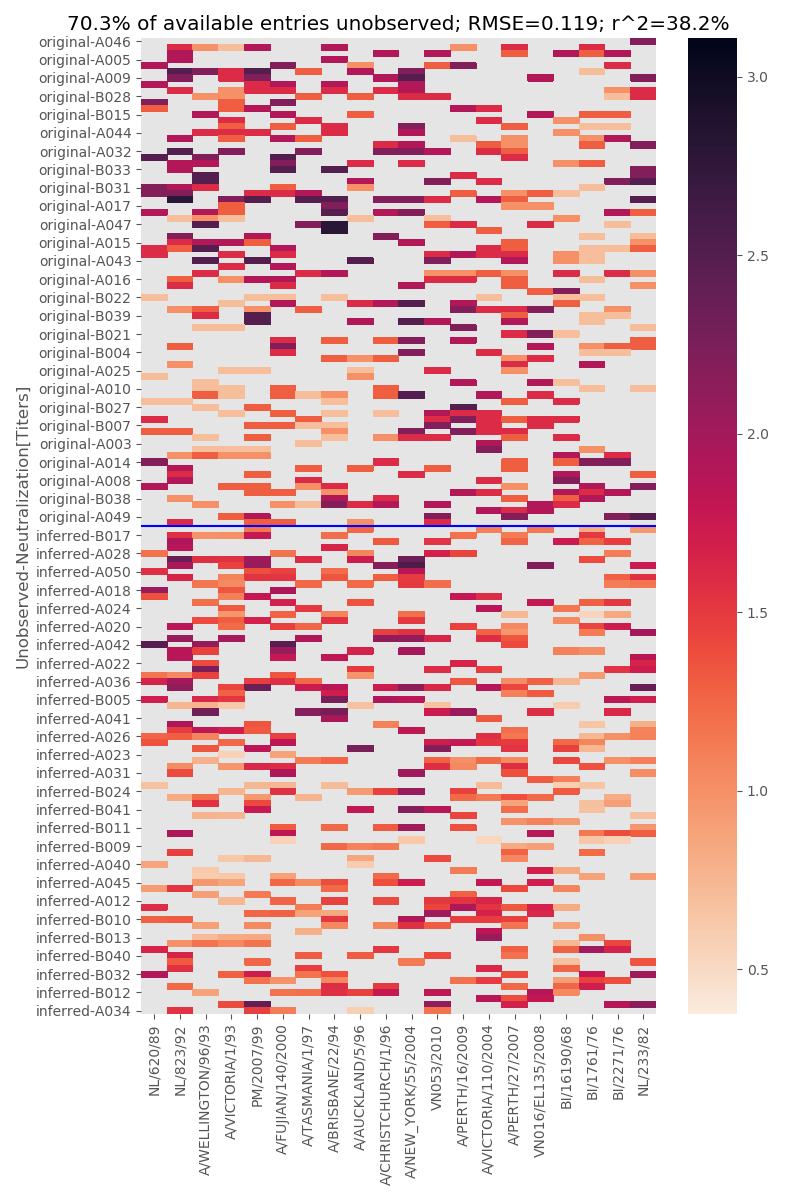
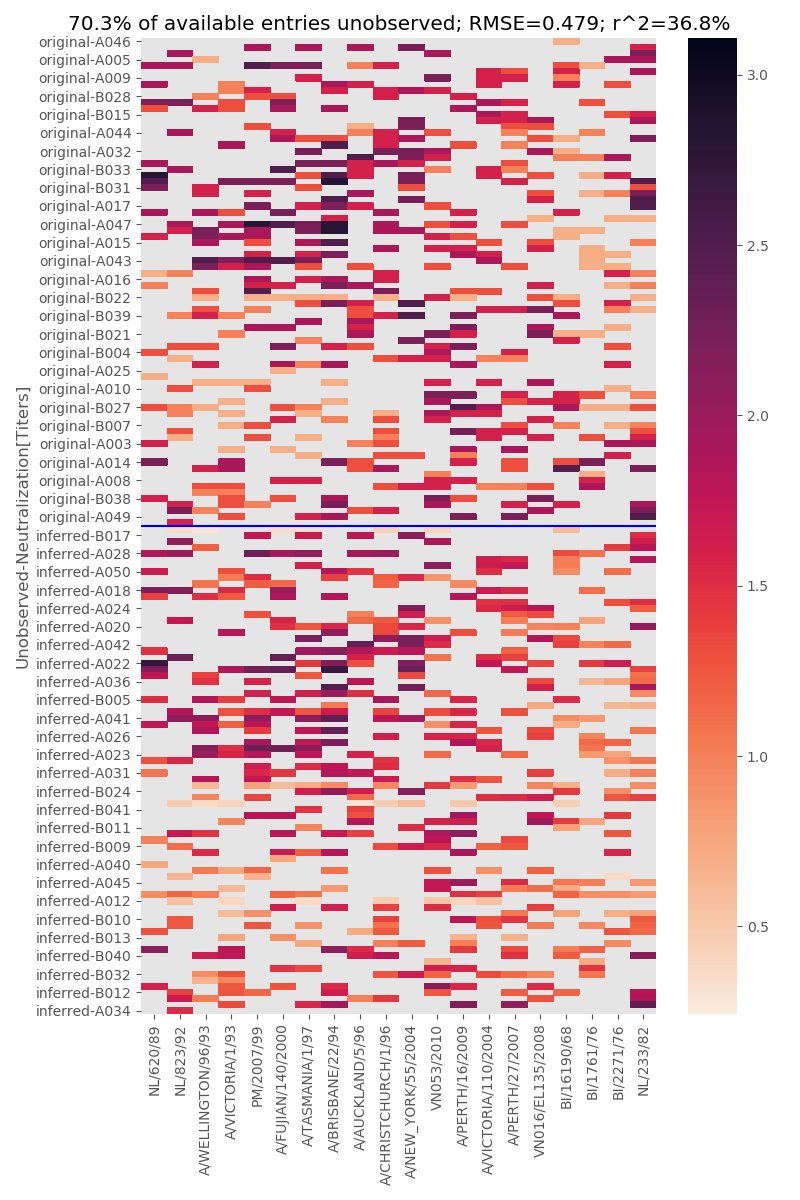
fixing rmse

diff --git a/matrix_completion_analysis.py b/matrix_completion_analysis.py
@@ -37,7 +37,8 @@ def cvx_nuc(A,mask):
 
 def calc_unobserved_rmse(X,X_hat,mask):
 	available = np.invert(np.isnan(X.values))
-	return (np.linalg.norm((X-X_hat).values[np.where((1-mask)*available)])/((1-mask)*available).sum())**.5
+	idx = np.where((1-mask)*available)
+	return np.average((X.values[idx]-X_hat[idx])**2)**.5
 
 def calc_unobserved_r2(X,X_hat,mask):
 	available = np.invert(np.isnan(X.values))
